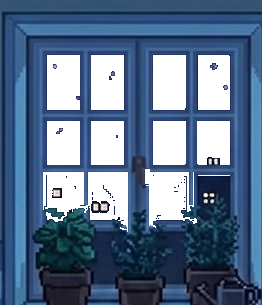
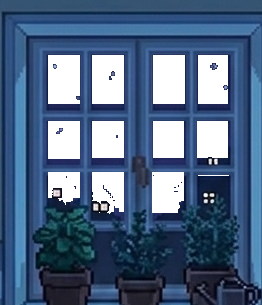
fix(weather): the cuts no longer leak onto the frame, and the bath has a night sky
A verification pass over the seven cuts came back with two real leaks I had
called clean, and looking at the night art turned up two more:

  bedroom      the flood ate the top rail's dark inner lip, 100px of magenta
               painted on the woodwork. After dark the keyline brake is off,
               because the sky IS the dark thing -- but the frame is still
               wood, so it is WARM where the sky has gone cold. `coolMin`
               is that brake: blue minus red, floored per room. Costs 112 of
               51,583 cut pixels. One seed was also sitting one row high, on
               the lip rather than the glass; seeds skip every brake by
               definition, so that one punched its own hole. Seeds are now
               checked and refused out loud.
  bathroom     two segments of the frame's inner lining, which is the same
               brightness AND the same hue as the glare painted on the glass
               beside it. No threshold separates them, so both edge columns
               and the sill's top row are declared off limits with `keep`
               rather than guessed at with a fourth heuristic.
  lab, night   every mullion swallowed, and the plant on the sill with them
  playroom     the neighbour's house swallowed, so it vanished each evening

The last two share a cause and a fix: after dark the frame and the glass are
the same near-black. The night pass is now INTERSECTED with the day pass --
[…]

diff --git a/src/lib/roomWindows.ts b/src/lib/roomWindows.ts
@@ -5,9 +5,10 @@
 // space RoomWeather positions in (inside a cover box that mirrors the
 // picture's own aspect ratio).
 //
-// A room whose night art differs carries a second cut; one whose night art
-// IS the day art (the bedroom is already a night scene) carries null and
-// reuses the day cut.
+// A room whose night art is a different picture carries a second cut; one
+// already painted after dark (the bedroom) points `night` back at its day
+// cut. `night: null` means no clean cut of that room after dark exists, so
+// it simply has no weather then -- an absence beats a leak.
 
 export interface RoomWindow {
   /** For the picker in the Lab. */
@@ -40,7 +41,7 @@ export const ROOM_WINDOWS: Record<string, RoomWindow> = {
   sleep: {
     label: 'BEDROOM',
     art: { w: 768, h: 1376 },
-    box: { l: 0.352, t: 0.171, w: 0.319, h: 0.374 },
+    box: { l: 0.29297, t: 0.17224, w: 0.38412, h: 0.37282 },
     day: '/weather/sleep.png',
     night: '/weather/sleep.png',
   },
@@ -49,7 +50,7 @@ export const ROOM_WINDOWS: Record<string, RoomWindow> = {
     art: { w: 768, h: 1376 },
     box: { l: 0.755208, t: 0.164244, w: 0.179688, h: 0.175872 },
     day: '/weather/wash.png',
-    night: null,
+    night: '/weather/wash_night.png',
   },
   chemistry: {
     label: 'LAB',

diff --git a/scripts/build_window_frames.py b/scripts/build_window_frames.py
@@ -24,6 +24,28 @@ eats the wallpaper:
   key    and never darker than the seed by `keyDrop`, which is what actually
          stops it at the outline every window in this game is drawn with
          (disabled for a night window, where the sky IS the dark thing)
+  cool   and, where a room asks for it, never less blue than `coolMin`,
+         measured as blue minus red. This is the night window's substitute for
+         the key brake: after dark the frame is not darker than the sky, but it
+         is still WOOD, so it stays warm where the sky has gone cold. Off by
+         default, and wrong for any window with white cloud or green hills in
+         it -- those are not blue either
+
+Where no threshold separates two objects at all -- a 1px frame lining the same
+brightness and the same hue as the glass beside it -- a room may list `keep`
+rectangles, in fractions of its own crop, which are never cut. That is not a
+failure of the flood; some pairs of colours are genuinely identical and saying
+so explicitly beats inventing a fourth heuristic to guess it.
+
+A room whose night art is a different picture gets a second pass over that
+picture, INTERSECTED with the day pass: a pixel is only cut at night if the
+daylight picture agreed it was sky. It needs that, because after dark the
+lab's mullions go as black as its glass and the playroom's neighbouring house
+goes as black as the sky behind it -- unchecked, the night flood swallows both
+and the house disappears every evening. Since the two pictures are the same
+room from the same camera, the daylight cut, where colour separation is easy,
+is the authority on where the glass IS, and the night pass only ever narrows
+it.
 
 Bias: when in doubt KEEP the pixel. A pixel wrongly kept hides a raindrop
 nobody was looking at; a pixel wrongly dropped puts weather on the wallpaper.
@@ -56,7 +78,12 @@ def dist(a, b):
     return abs(a[0] - b[0]) + abs(a[1] - b[1]) + abs(a[2] - b[2])
 
 
-def cut(room, spec, outdir, shots, art=None, suffix=''):
+def cool(c):
+    """Blue minus red. Sky is positive, wood and lamplight are negative."""
+    return c[2] - c[0]
+
+
+def cut(room, spec, outdir, shots, art=None, suffix='', only=None):
     im = Image.open(os.path.join(PUB, art or spec['art'])).convert('RGBA')
     W, H = im.size
     fl, ft, fw, fh = spec['box']
@@ -69,13 +96,31 @@ def cut(room, spec, outdir, shots, art=None, suffix=''):
     tol = spec.get('tol', 26)
     seed_tol = spec.get('seedTol', 110)
     key_drop = spec.get('keyDrop', 55)
+    cool_min = spec.get('coolMin')
     night = spec.get('night', False)
+
+    # Painted-in walls the flood may not enter, in fractions of this crop.
+    keep = [[False] * ch for _ in range(cw)]
+    for kl, kt, kw, kh in spec.get('keep', []):
+        ax, ay = max(0, int(kl * cw)), max(0, int(kt * ch))
+        bx = min(cw, max(ax + 1, int((kl + kw) * cw)))
+        by = min(ch, max(ay + 1, int((kt + kh) * ch)))
+        for x in range(ax, bx):
+            for y in range(ay, by):
+                keep[x][y] = True
 
     sky = [[False] * ch for _ in range(cw)]
     seed_of = {}
     q = deque()
     for sx, sy in spec['seeds']:
         p = (min(cw - 1, max(0, int(sx * cw))), min(ch - 1, max(0, int(sy * ch))))
+        # A seed skips every brake by definition, so a seed dropped one row off
+        # the glass punches a hole in the frame and nothing downstream catches
+        # it. Refuse it loudly instead.
+        if keep[p[0]][p[1]] or (cool_min is not None and cool(px[p[0], p[1]]) < cool_min):
+            print(f'  ! {room}{suffix}: seed ({sx}, {sy}) is not on glass '
+                  f'-- px {p} is {px[p[0], p[1]][:3]}, ignored')
+            continue
         if not sky[p[0]][p[1]]:
             sky[p[0]][p[1]] = True
             seed_of[p] = px[p[0], p[1]]
@@ -87,7 +132,7 @@ def cut(room, spec, outdir, shots, art=None, suffix=''):
         seed = seed_of[(x, y)]
         for dx, dy in ((1, 0), (-1, 0), (0, 1), (0, -1)):
             nx, ny = x + dx, y + dy
-            if not (0 <= nx < cw and 0 <= ny < ch) or sky[nx][ny]:
+            if not (0 <= nx < cw and 0 <= ny < ch) or sky[nx][ny] or keep[nx][ny]:
                 continue
             c = px[nx, ny]
             if dist(here, c) > tol:
@@ -96,6 +141,8 @@ def cut(room, spec, outdir, shots, art=None, suffix=''):
                 continue
             if not night and luma(c) < luma(seed) - key_drop:
                 continue
+            if cool_min is not None and cool(c) < cool_min:
+                continue
             sky[nx][ny] = True
             seed_of[(nx, ny)] = seed
             q.append((nx, ny))
@@ -103,6 +150,8 @@ def cut(room, spec, outdir, shots, art=None, suffix=''):
     n = 0
     for x in range(cw):
         for y in range(ch):
+            if only is not None and not only[x][y]:
+                sky[x][y] = False
             if sky[x][y]:
                 r, g, b, _ = px[x, y]
                 px[x, y] = (r, g, b, 0)
@@ -120,9 +169,9 @@ def cut(room, spec, outdir, shots, art=None, suffix=''):
 
     pct = 100.0 * n / (cw * ch)
     print(f'{room + suffix:16s} box={cw}x{ch} sky={pct:5.1f}% '
-          f'tol={tol} seedTol={seed_tol} keyDrop={key_drop} night={night} '
-          f'-> {room}{suffix}.png')
-    return pct, (cw, ch), im.size
+          f'tol={tol} seedTol={seed_tol} keyDrop={key_drop} coolMin={cool_min} '
+          f'night={night} keep={len(spec.get("keep", []))} -> {room}{suffix}.png')
+    return pct, (cw, ch), im.size, sky
 
 
 def main():
@@ -138,14 +187,15 @@ def main():
     meta = {}
     for room in rooms:
         sp = specs[room]
-        _, _, art_size = cut(room, sp, a.out, a.shots)
+        _, _, art_size, day_sky = cut(room, sp, a.out, a.shots)
         night = f'/weather/{room}.png'
         if sp.get('nightOk') is False:
             # No clean cut of this room's night art exists, so it simply has
             # no weather after dark. A leak is worse than an absence.
             night = None
         elif sp.get('nightArt'):
-            cut(room, sp, a.out, a.shots, art=sp['nightArt'], suffix='_night')
+            cut(room, sp, a.out, a.shots, art=sp['nightArt'], suffix='_night',
+                only=day_sky)
             night = f'/weather/{room}_night.png'
         meta[room] = dict(box=sp['box'], art=art_size, night=night)
 
@@ -171,9 +221,10 @@ def emit_ts(specs, meta):
     L.append('// space RoomWeather positions in (inside a cover box that mirrors the')
     L.append("// picture's own aspect ratio).")
     L.append('//')
-    L.append('// A room whose night art differs carries a second cut; one whose night art')
-    L.append('// IS the day art (the bedroom is already a night scene) carries null and')
-    L.append('// reuses the day cut.')
+    L.append('// A room whose night art is a different picture carries a second cut; one')
+    L.append('// already painted after dark (the bedroom) points `night` back at its day')
+    L.append('// cut. `night: null` means no clean cut of that room after dark exists, so')
+    L.append('// it simply has no weather then -- an absence beats a leak.')
     L.append('')
     L.append('export interface RoomWindow {')
     L.append('  /** For the picker in the Lab. */')
